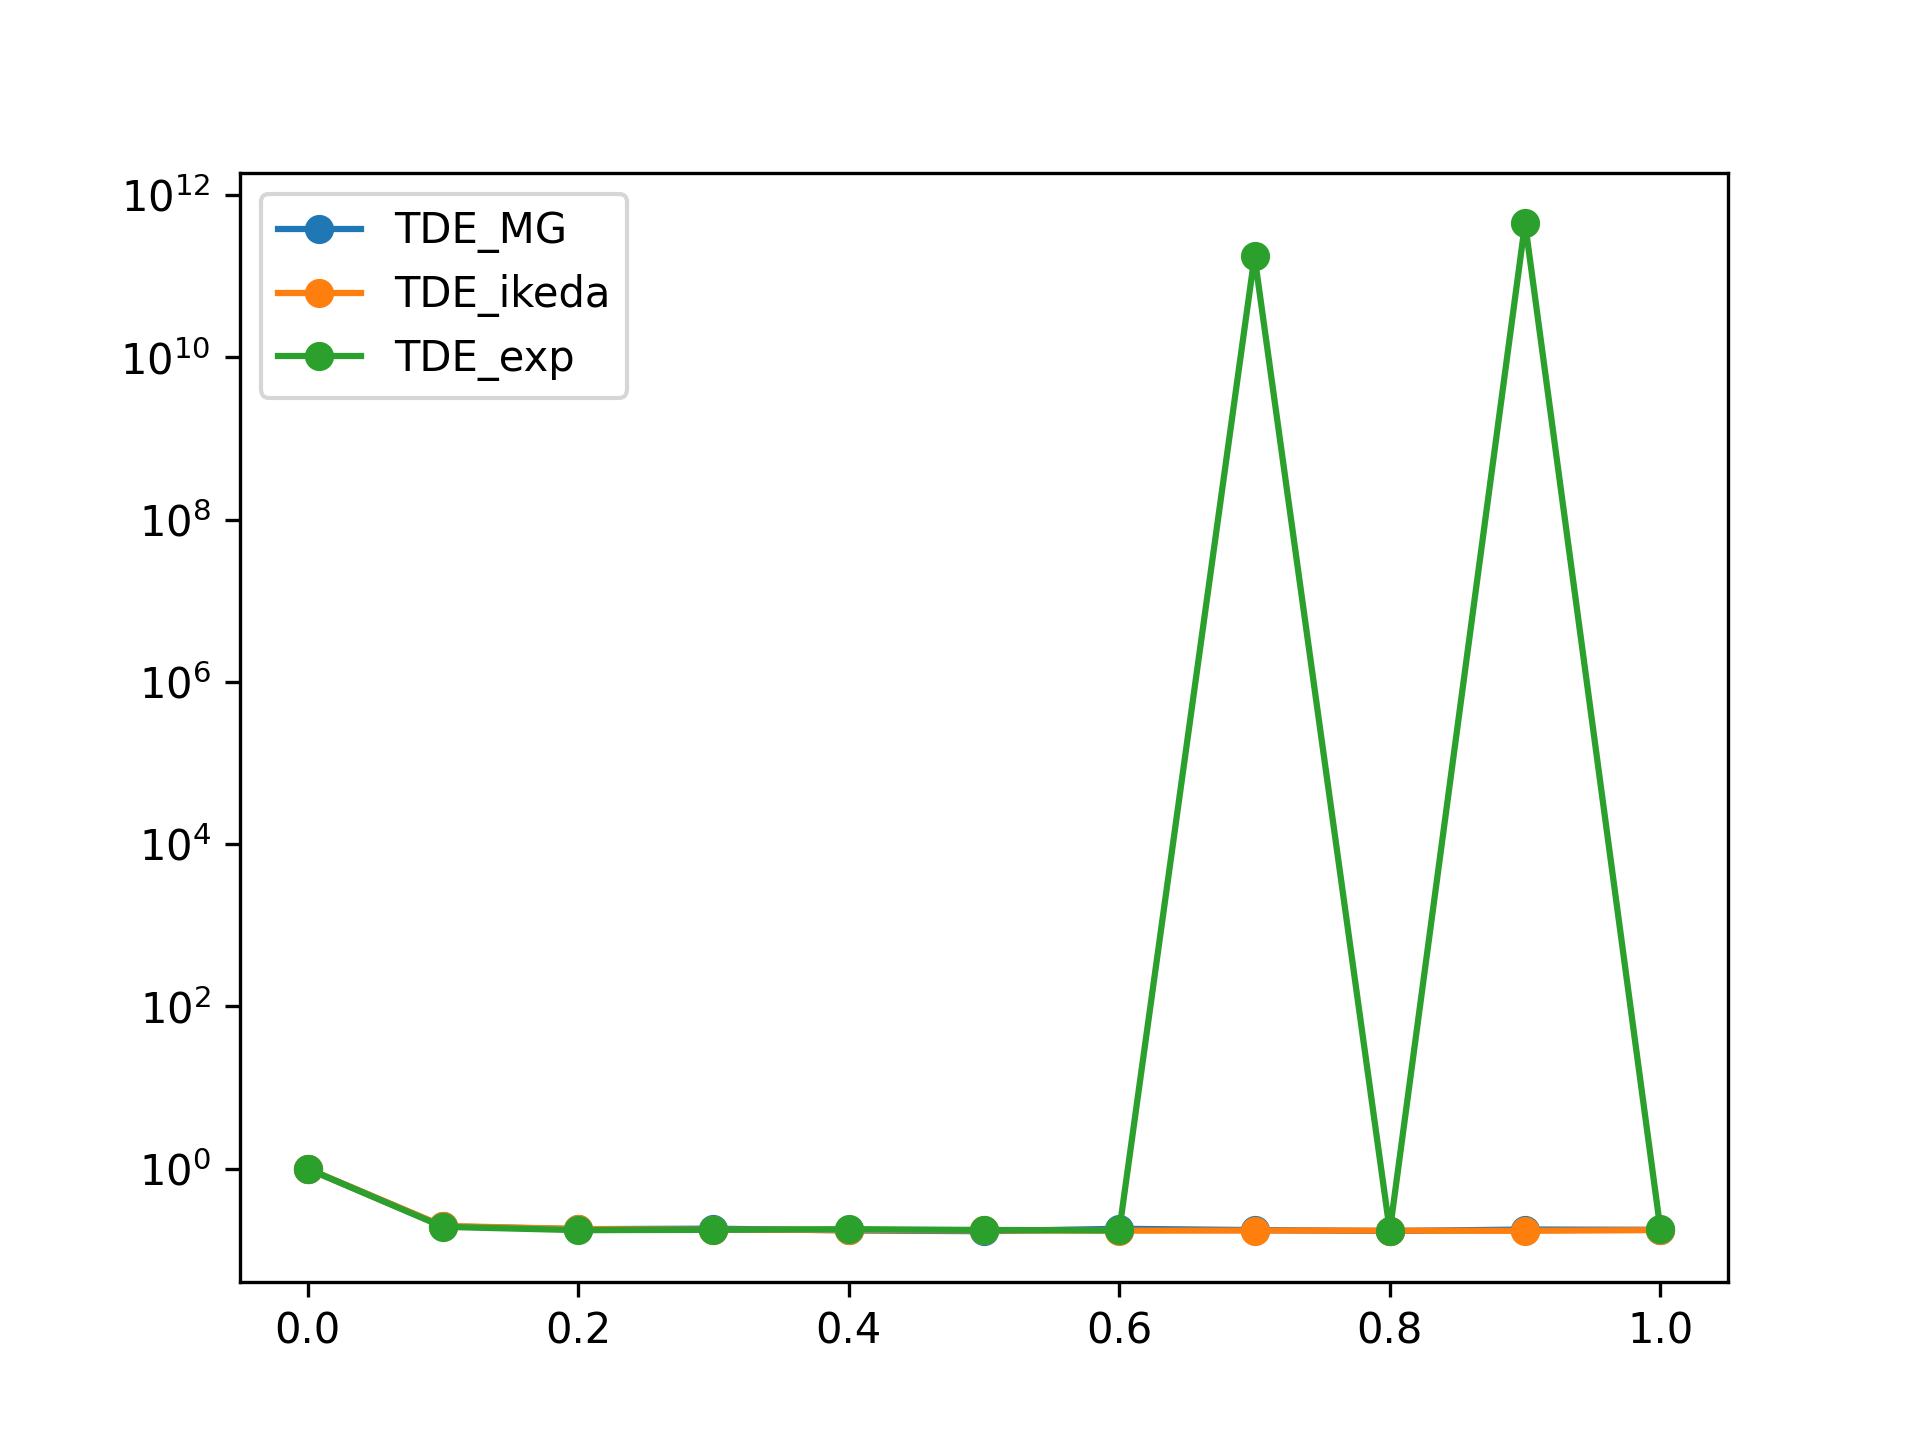
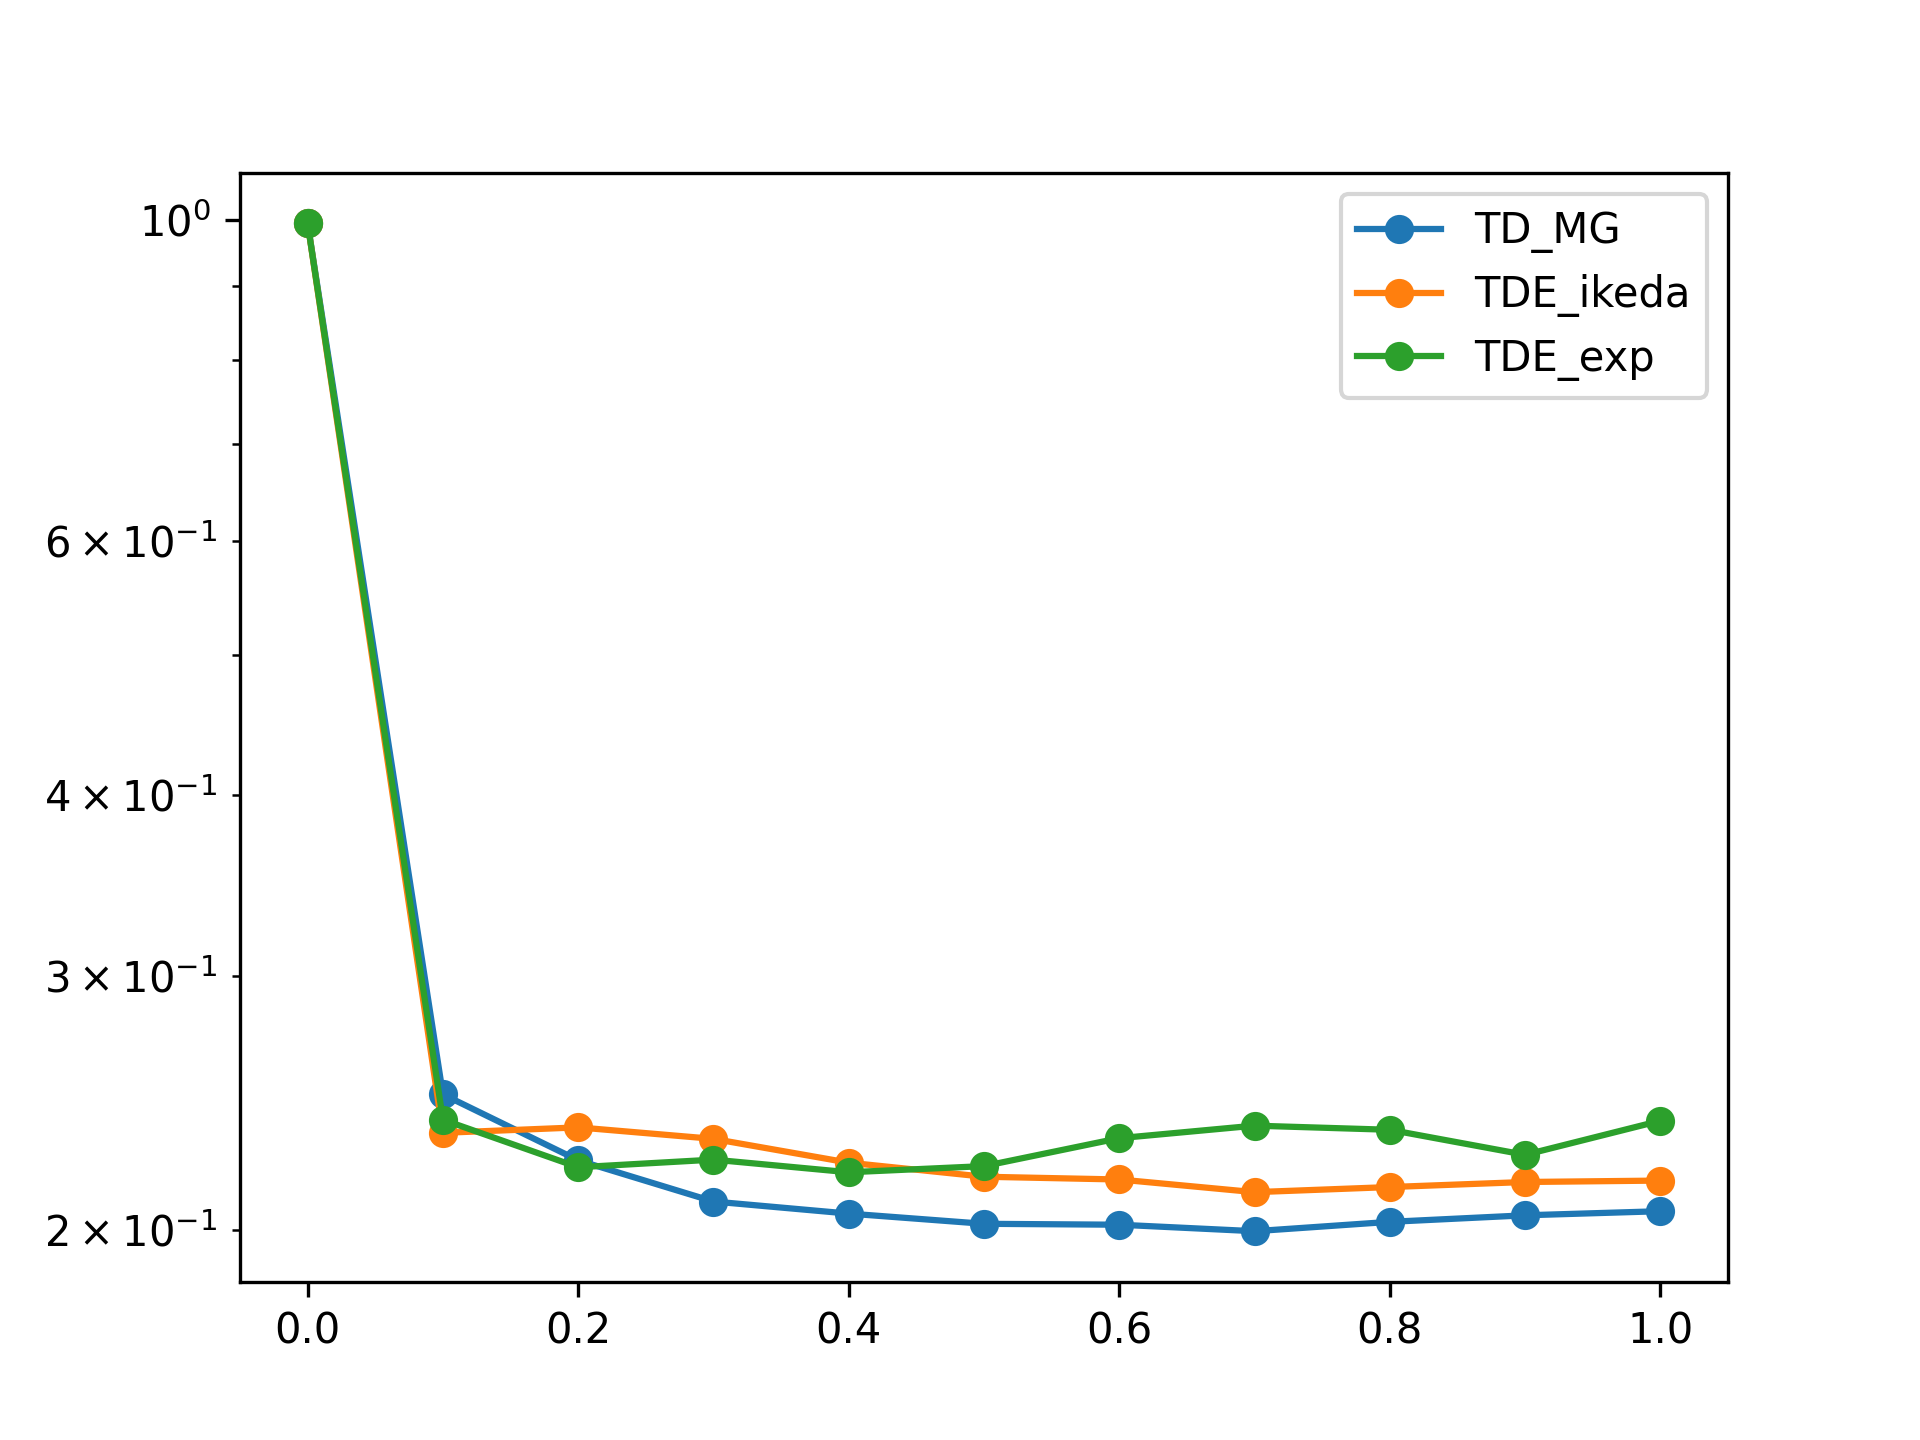
あ

diff --git a/reservoir_ESN/graph.py b/reservoir_ESN/graph.py
@@ -1,13 +1,13 @@
 import pandas as pd
 import os
 from matplotlib import pyplot as plt
-folder = "hozonnyou/"
+folder = "practice/"
 for name in os.listdir(folder):
     #name = "approx_3_3.0_100"
     name = os.path.splitext(os.path.basename(name))[0]
     df = pd.read_csv(folder + name + '.txt', sep=',',comment='#')
     p_list = df["p"].unique()
-    function_names = ["TDE_MG", "TDE_ikeda","TDE_exp"];
+    function_names = ["TD_MG", "TDE_ikeda","TDE_exp"];
     for function_name in function_names:
         data_x, data_y = [], []
         for p in p_list:
